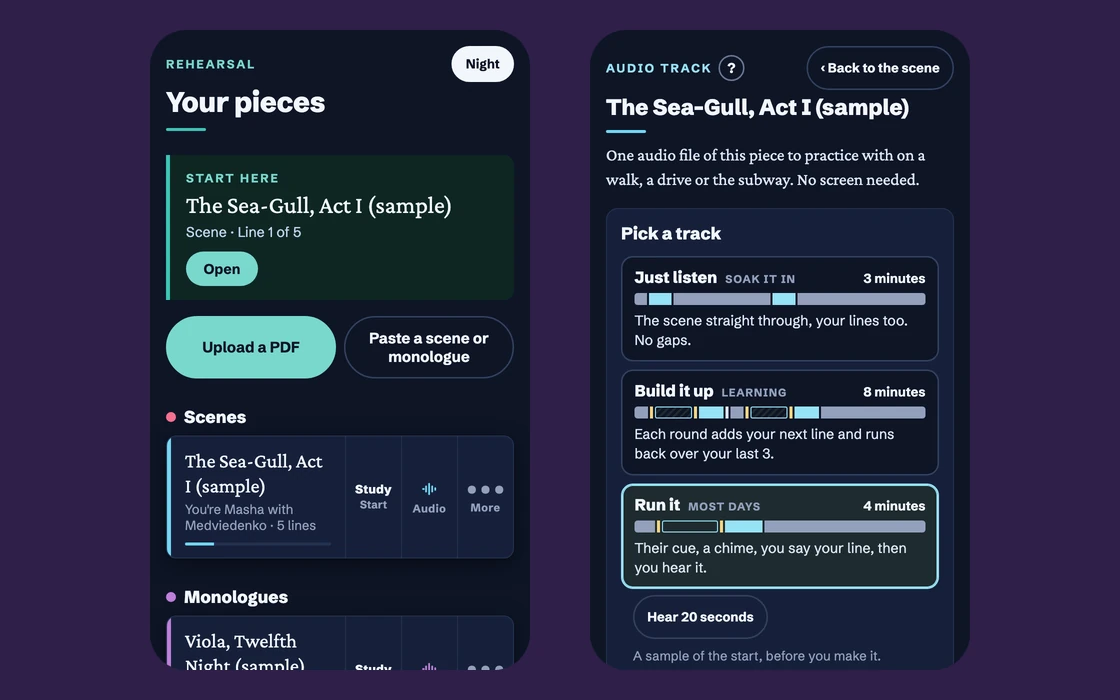
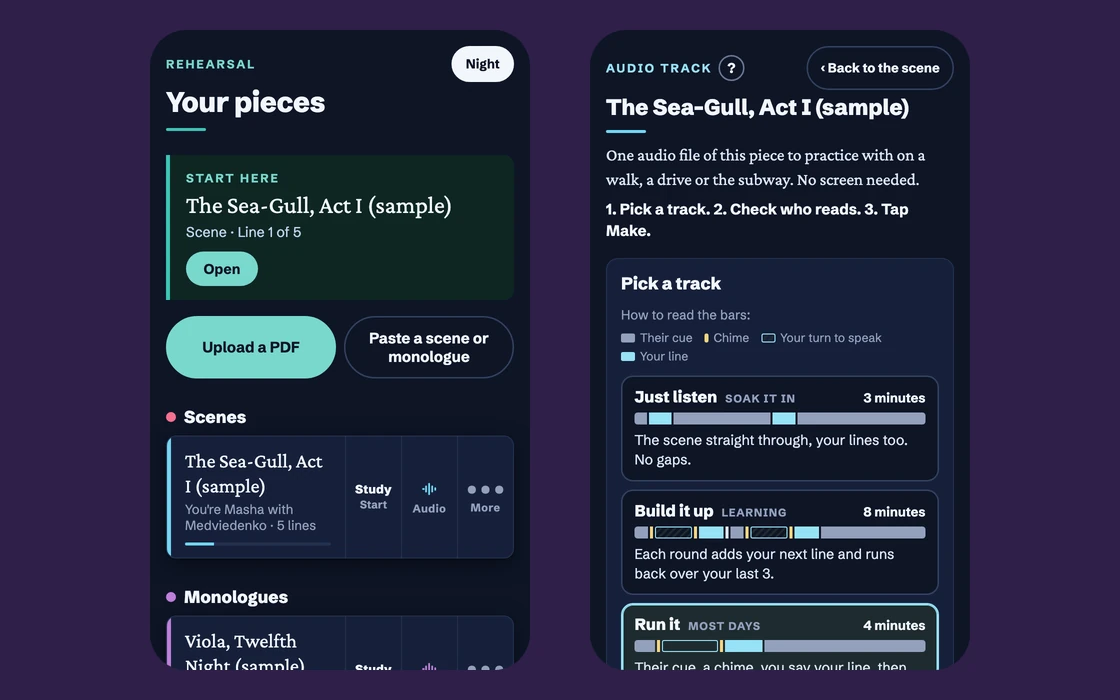
Rehearsal preview: Audio track page shows its steps and bar key (11-14 clarity pass)

Changed region(s): [[0.5312, 0.27, 0.8438, 0.96]]

diff --git a/custom-tools/index.html b/custom-tools/index.html
@@ -205,7 +205,7 @@
     </article>
 
     <article class="card">
-      <img loading="lazy" decoding="async" src="/img/app-rehearsal.webp" width="560" height="350" alt="Two phone screens from Rehearsal: the home screen, where each piece card has a Study button with its progress, an Audio button and a More button, and the Audio track page for a public-domain sample scene from The Sea-Gull, with track choices like Just listen, Build it up and Run it, each showing its length and a timeline of the track.">
+      <img loading="lazy" decoding="async" src="/img/app-rehearsal.webp" width="560" height="350" alt="Two phone screens from Rehearsal: the home screen, where each piece card has a Study button with its progress, an Audio button and a More button, and the Audio track page for a public-domain sample scene from The Sea-Gull, with three numbered steps, a key to the colored bars, and track choices like Just listen, Build it up and Run it, each showing its length and a timeline of the track.">
       <div class="body">
         <p class="kind">App in development</p>
         <h3>Rehearsal</h3>
